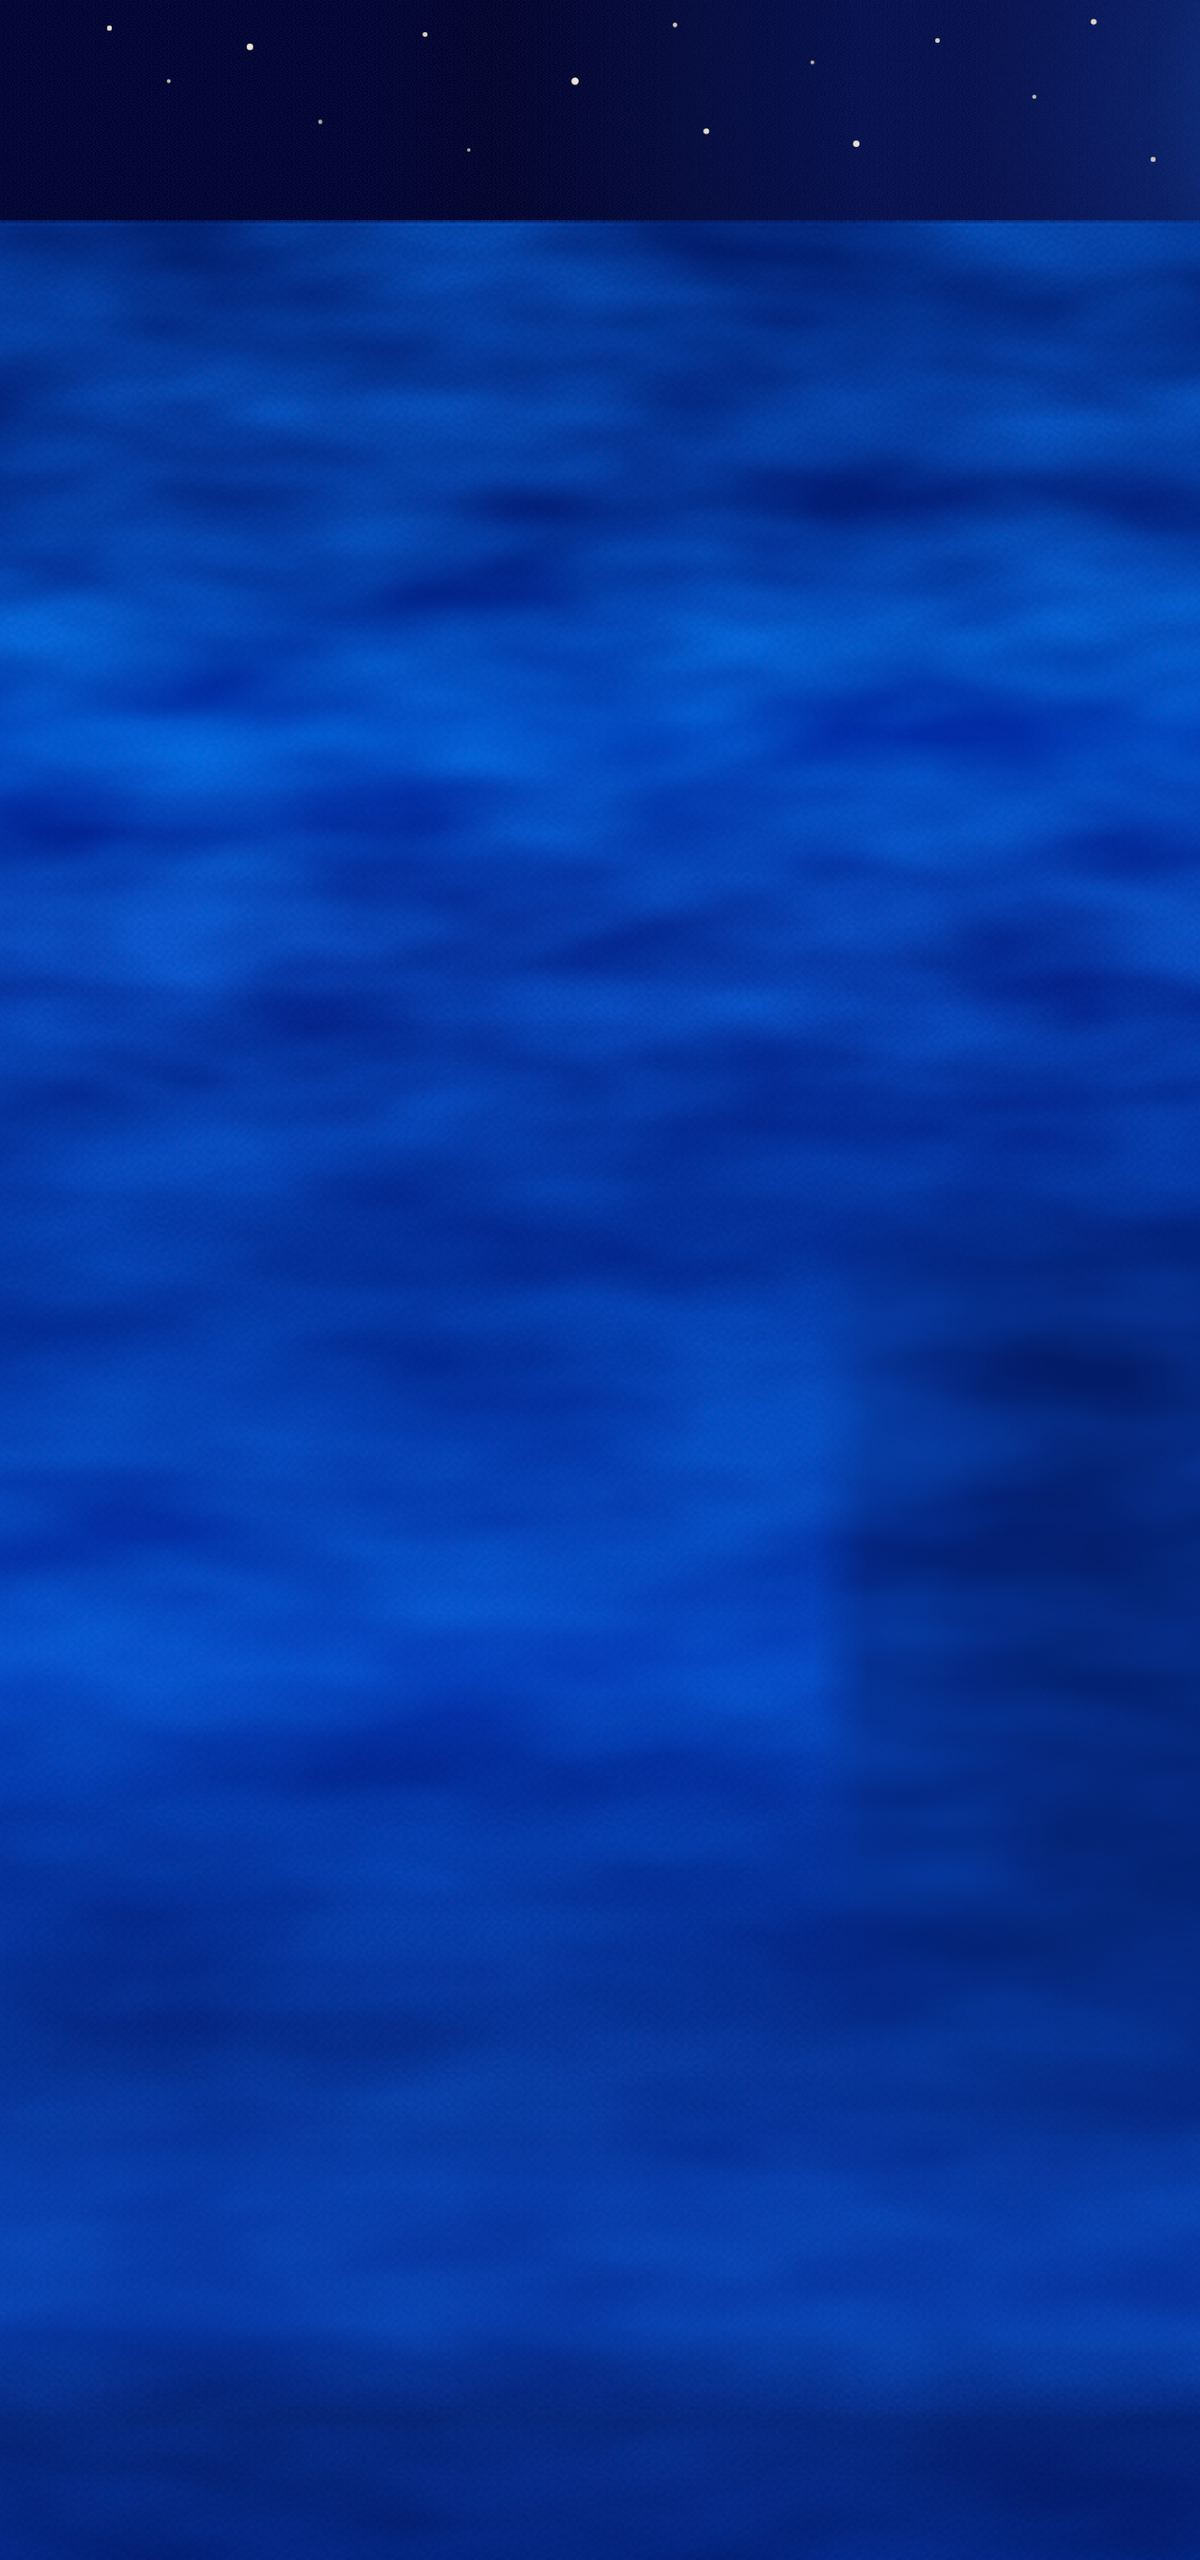
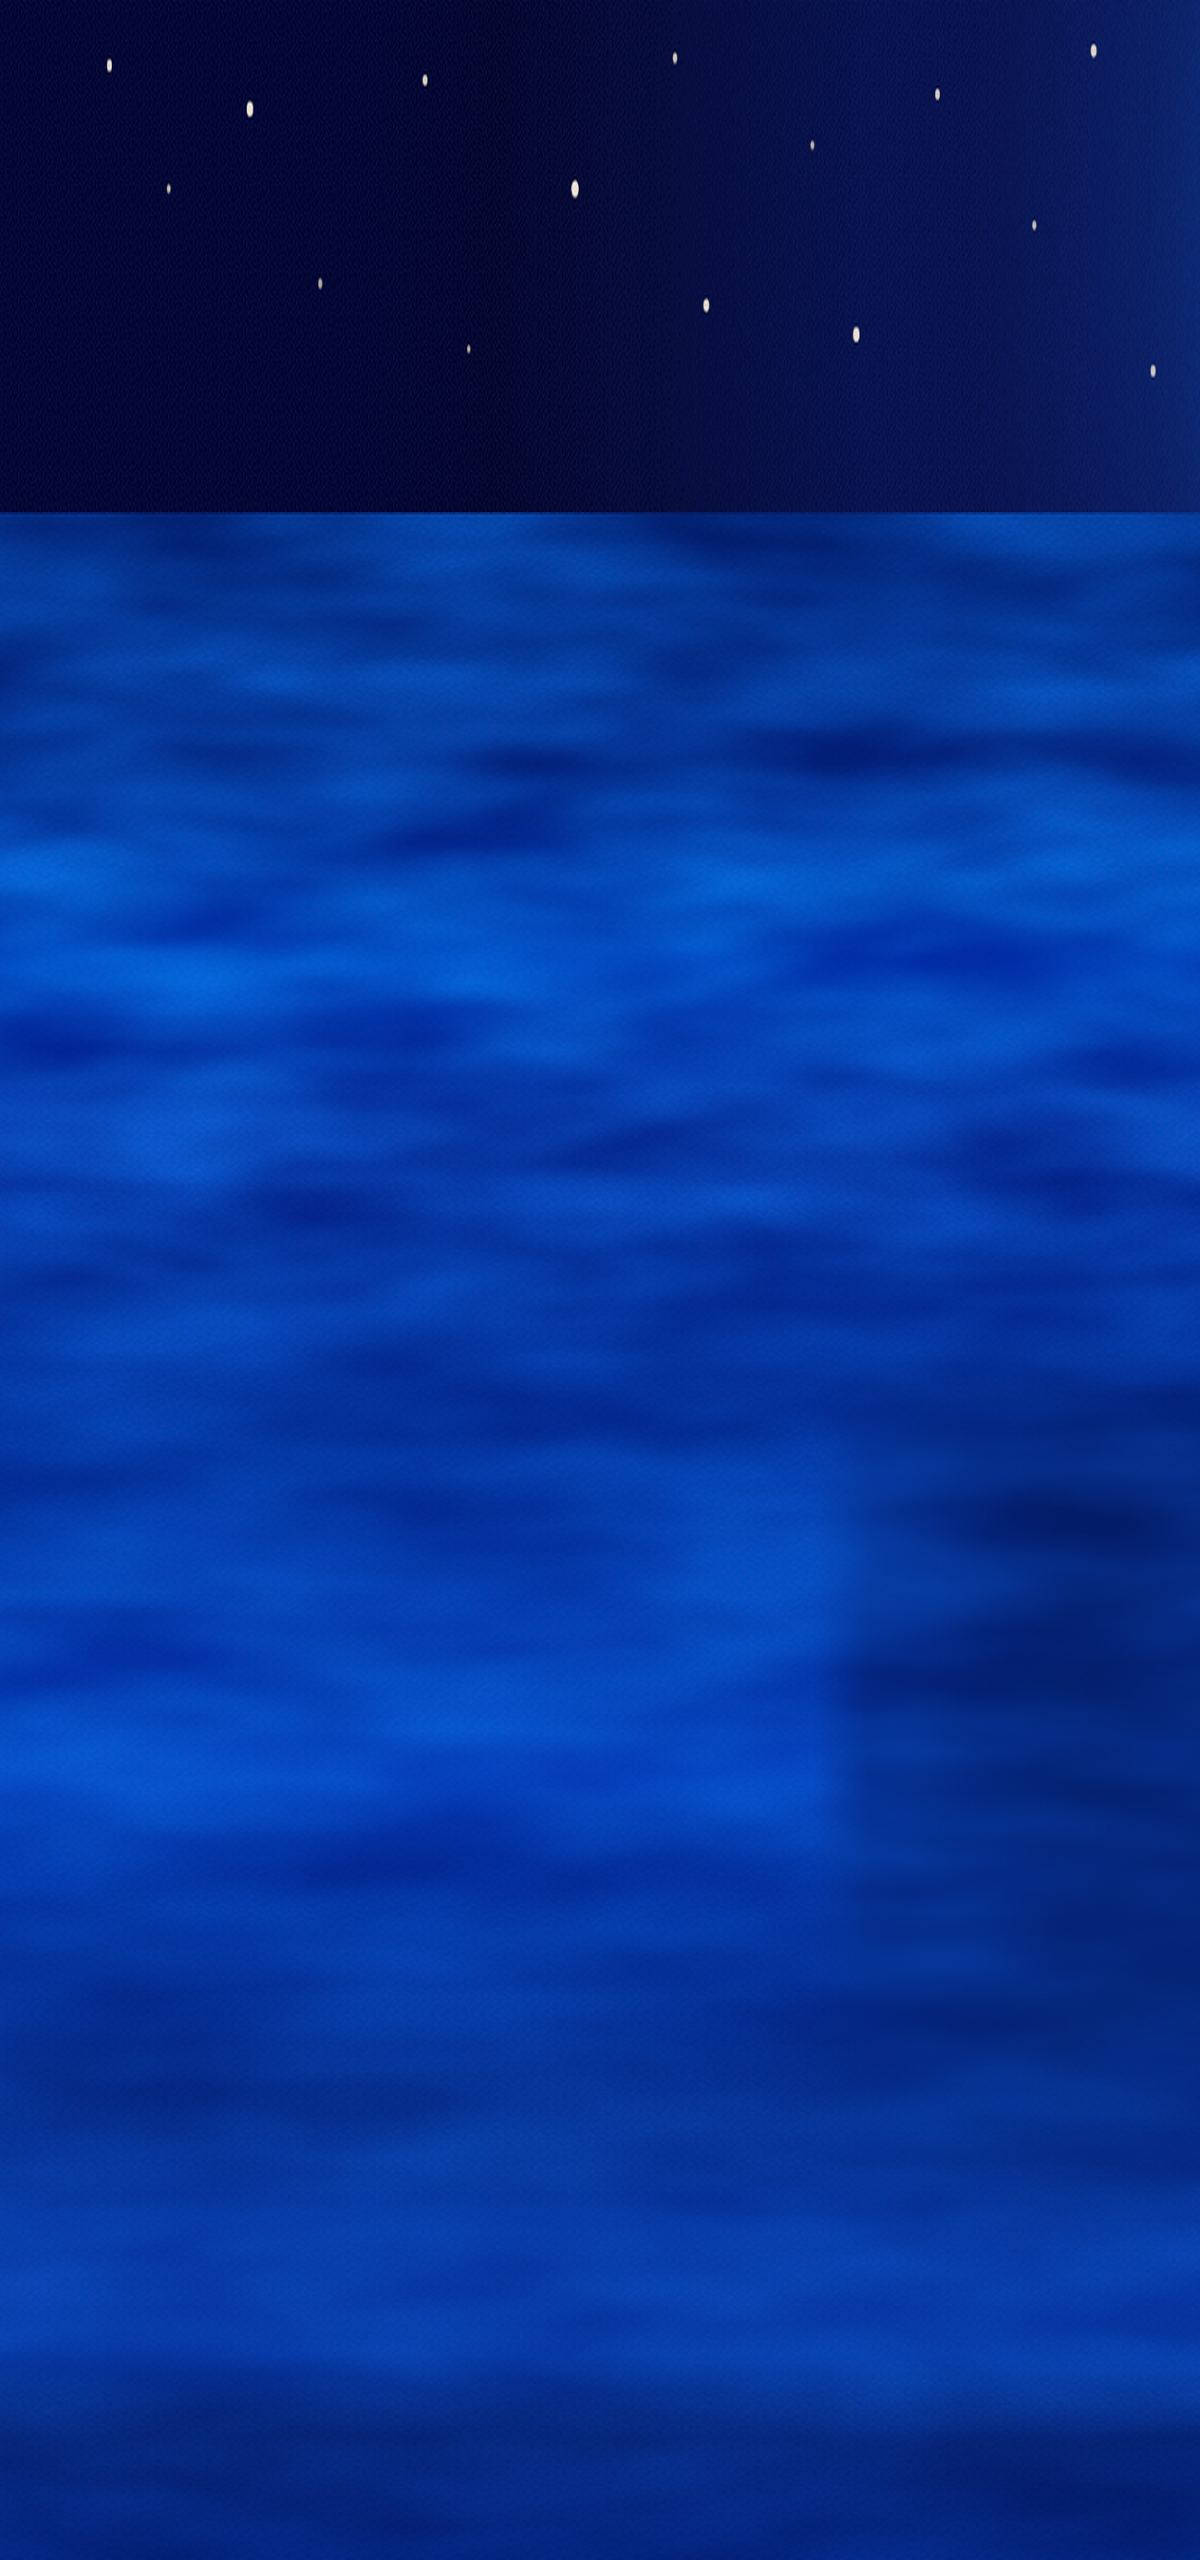
1 海平线回到屏高20%(天空占两成,不再海面过高)；2 雪山均匀铺开+轻抖不堆挤；3 首屏即刷新山/船(firstLaunch不再提前return)；4 对齐handoff字阶/圆角/行高(气泡标题44/正文34行1.9/录音钮34粗)；5 船只在水面:纵向在所有山脚之下+横向居最新山正前方,绝不压山

diff --git a/miniprogram/utils/sea.js b/miniprogram/utils/sea.js
@@ -145,7 +145,9 @@ function layoutMountains (icebergs, H, W, birthYear) {
       const width = Math.round(90 + rng() * 70)                                        // 密排 90–160
       const height = Math.round((50 + Math.min(130, len * 0.45)) * (0.85 + rng() * 0.4)) // 内容越多越高
       const variant = Math.floor(rng() * 3)
-      const x = ei * W + ((i * 0.37 + 0.13) % 1) * (W - width)
+      // 均匀铺开+轻微抖动，不堆挤
+      const slot = (i + 0.5) / g.length
+      const x = ei * W + slot * (W - width) + (rng() - 0.5) * 30
       const bottom = Math.round(H * (0.34 + ((i * 0.61 + 0.29) % 1) * 0.26))   // 往上靠，不挤底部
       mountains.push({
         id: b._id, left: Math.round(x), width, height, bottom,
@@ -155,11 +157,13 @@ function layoutMountains (icebergs, H, W, birthYear) {
     })
   })
   let newest = null
-  mountains.forEach((m) => { if (!newest || m.createdAt > newest.createdAt) newest = m })
+  let minBottom = Infinity
+  mountains.forEach((m) => { if (!newest || m.createdAt > newest.createdAt) newest = m; if (m.bottom < minBottom) minBottom = m.bottom })
   const boatW = 95
-  let boatX = newest ? Math.round(newest.left + newest.width + 8) : Math.round(W * 0.4)
-  if (newest && boatX + boatW > worldWidth) boatX = Math.max(0, Math.round(newest.left - boatW - 8))
-  const boatBottom = newest ? Math.max(Math.round(H * 0.12), newest.bottom - 50) : Math.round(H * 0.40)
+  // 船只在水面：纵向在所有山脚之下，横向居最新山正前方 → 绝不压山
+  let boatX = newest ? Math.round(newest.left + newest.width / 2 - boatW / 2) : Math.round(W * 0.4)
+  boatX = Math.max(0, Math.min(worldWidth - boatW, boatX))
+  const boatBottom = mountains.length ? Math.max(Math.round(H * 0.06), minBottom - 160) : Math.round(H * 0.30)
   return { mountains, worldWidth, boatX, boatBottom }
 }
 

diff --git a/miniprogram/pages/ocean/ocean.js b/miniprogram/pages/ocean/ocean.js
@@ -64,9 +64,7 @@ Page({
   onShow () {
     if (this.data.firstLaunch) {
       this.setData({ firstLaunch: false })
-      getApp().globalData.firstLaunch = false   // 清全局，避免编辑模式新开 ocean 再弹引导
-      // 首次进入：生日由鲸鱼气泡引导（称呼在杭航菜单里设置），不跳设置页
-      return
+      getApp().globalData.firstLaunch = false   // 清全局；首屏也要刷新出山/船
     }
     // 视角(pan+zoom)=用户自己的：返回时不碰 movable-view 内部状态，仅重建数据；
     // 只有首次/重启才设定视角（onLoad 从 globalData 恢复）。
